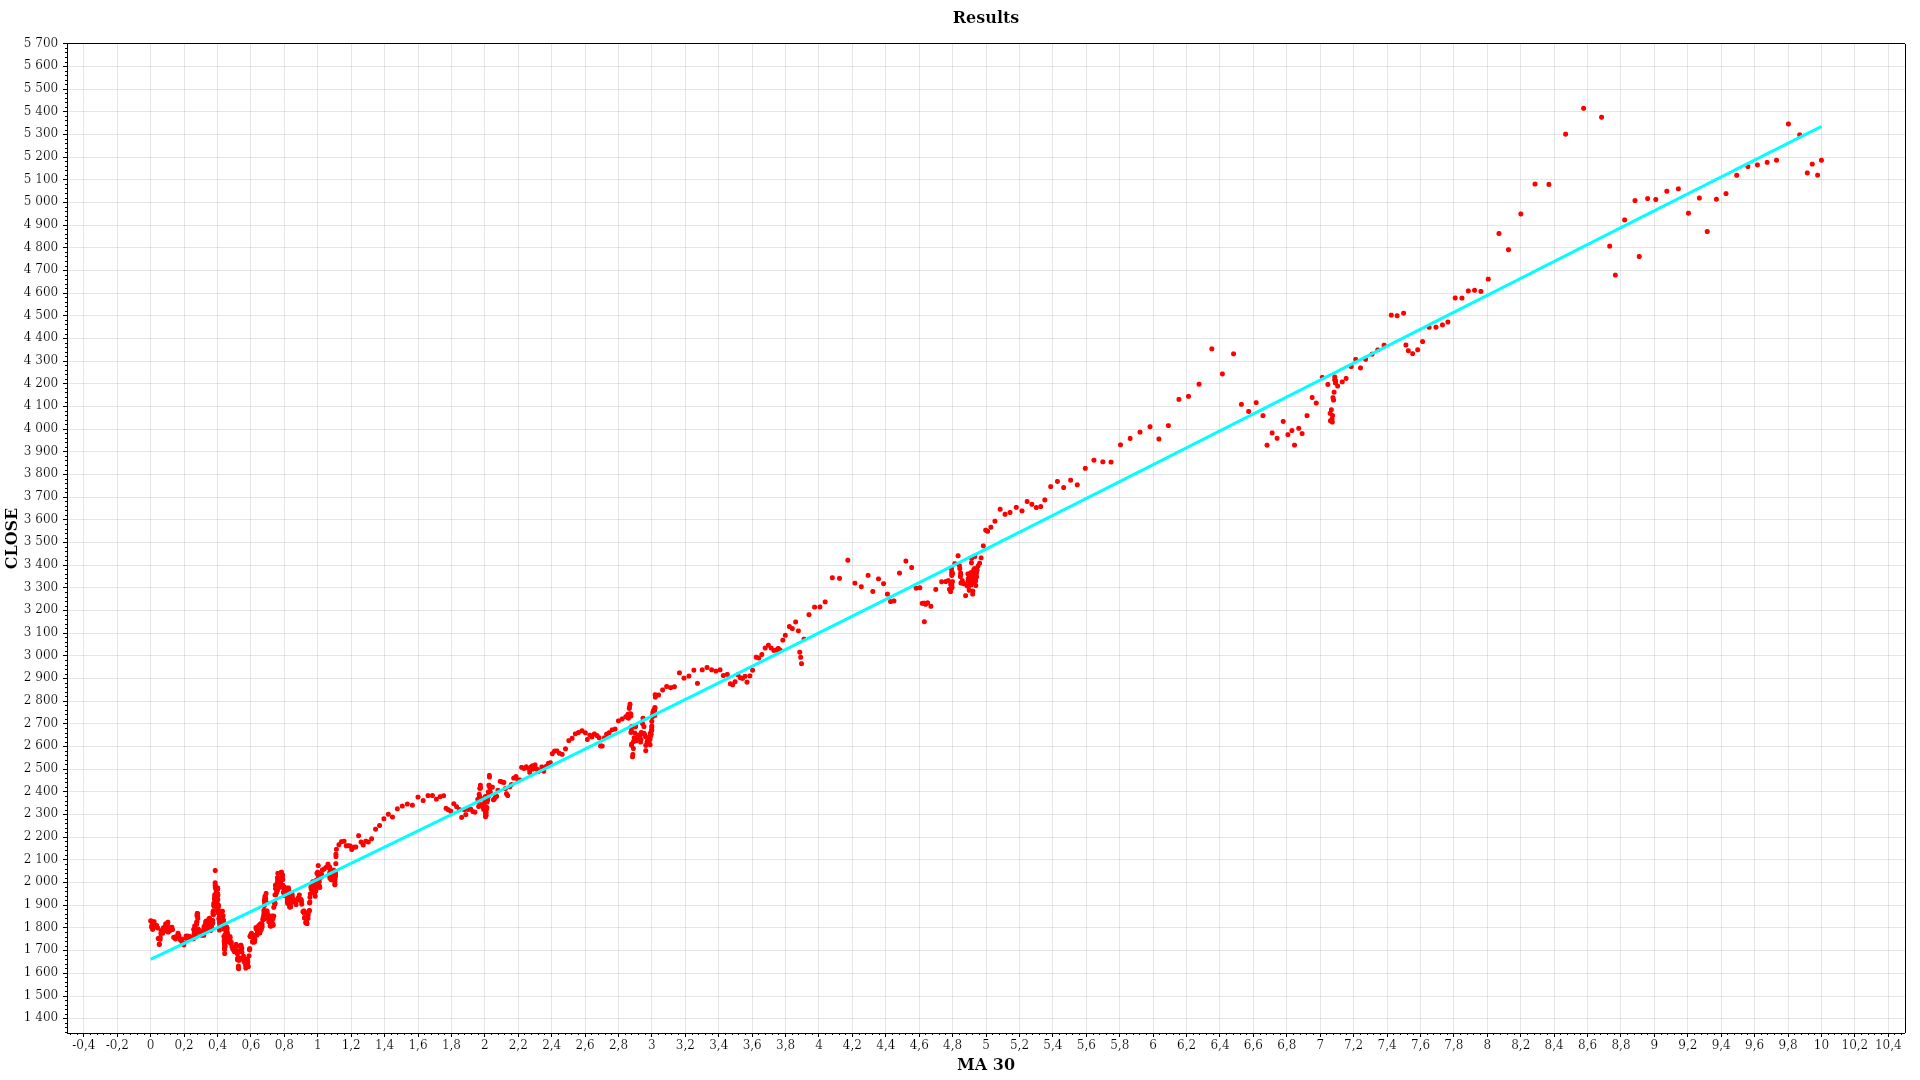
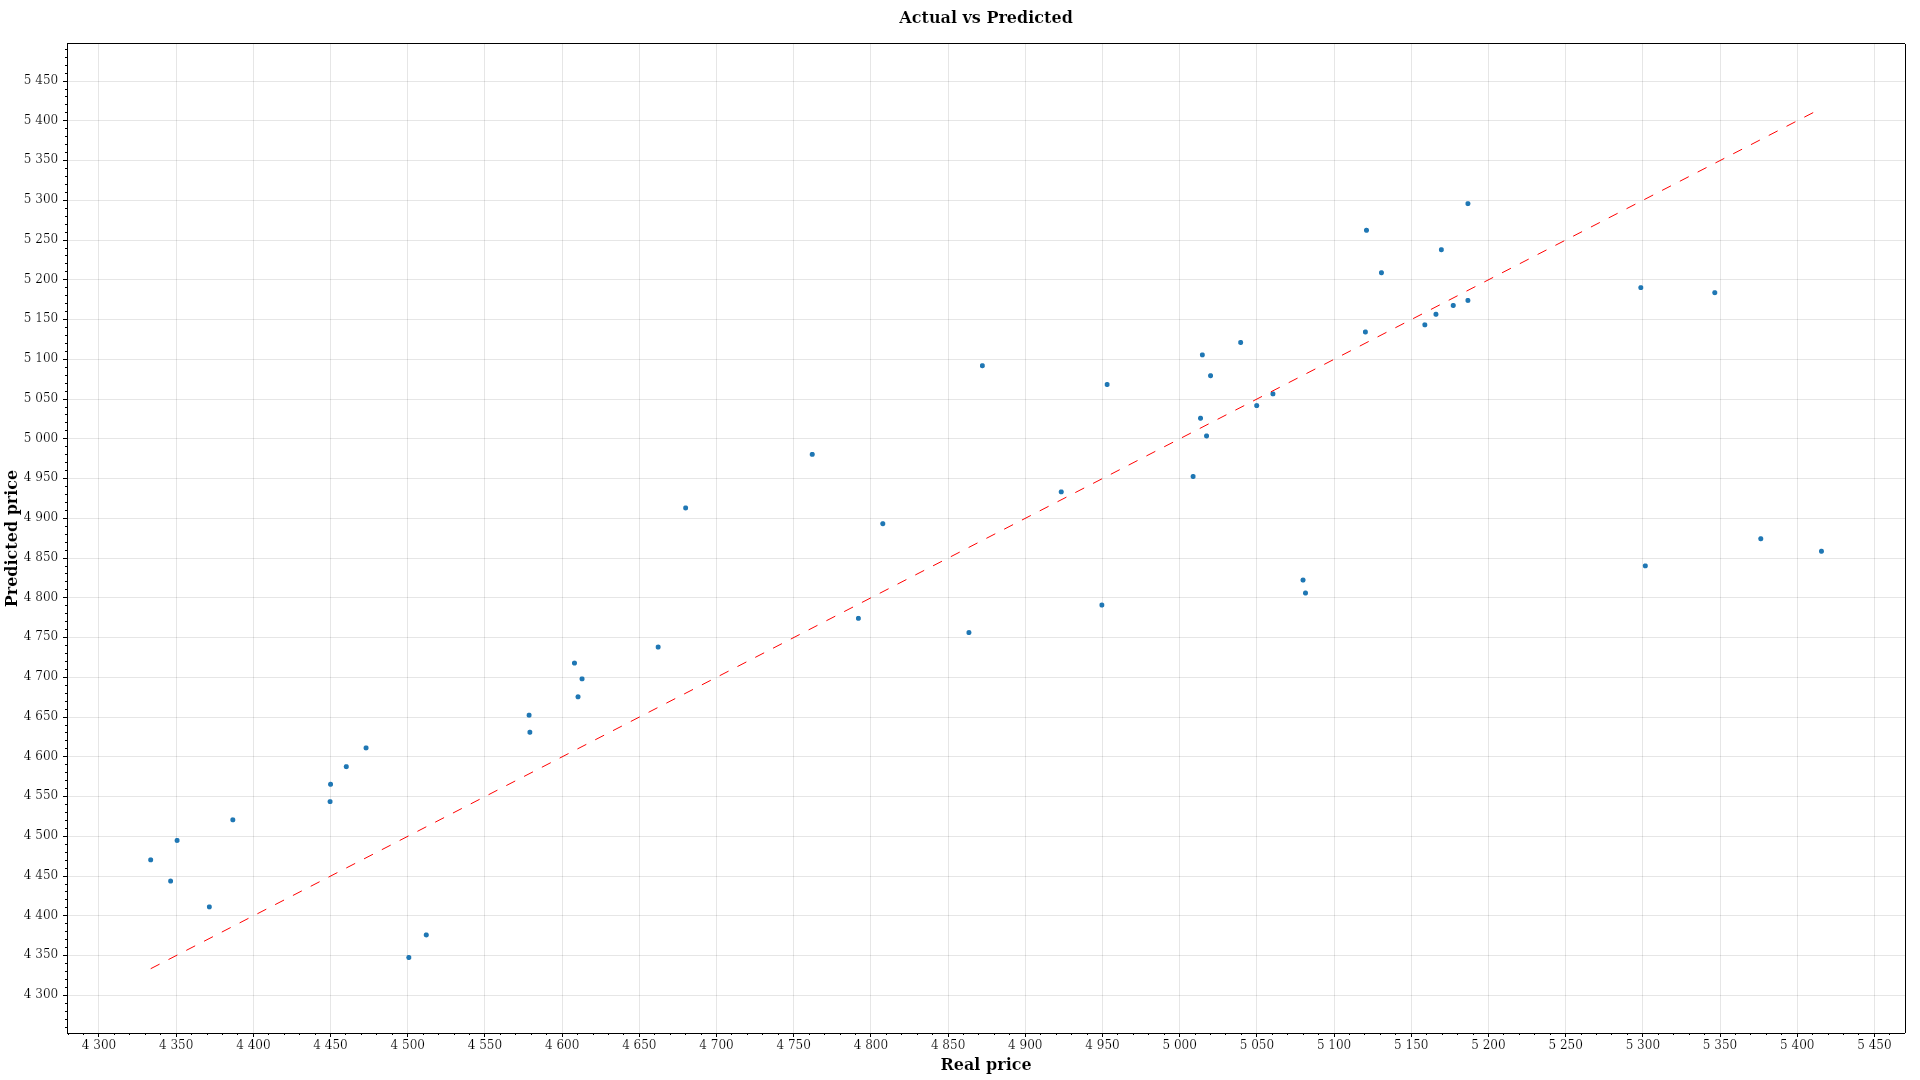
multiple arguments & cli input

Changed region(s): [[0.0, 0.0306, 1.0, 1.0], [0.4688, 0.0, 0.5625, 0.0306]]

diff --git a/Regresion/Regresion/Program.cs b/Regresion/Regresion/Program.cs
@@ -1,26 +1,31 @@
+using System.Diagnostics;
+using CommandLine;
 using Regresion.Algorithms;
+using Regresion.Inputs;
 using Regresion.Loader;
 using ScottPlot;
+using Spectre.Console;
 
-int degree = 3;
+string? filePath = string.Empty;
+IEnumerable<string?> AxisX = new List<string?>();
+string? AxisY = string.Empty;
+int degree = 6;
 
-Console.WriteLine("Name for X: ");
-string inputX = Console.ReadLine();
-Console.WriteLine("Name for Y: ");
-string inputY = Console.ReadLine();
+Parser.Default.ParseArguments<InputOptions>(args).WithParsed<InputOptions>(options =>
+{
+    filePath = options.csvFilePath;
+    AxisX = options.axisX;
+    AxisY = options.axisY;
+});
 
-var (xArr, yArr) = CsvDataLoader.LoadWith("gold_futures_timeseries.csv", 150, inputX, inputY);
+if (string.IsNullOrEmpty(filePath) || !AxisX.Any() || string.IsNullOrEmpty(AxisY)) return;
+
+var (xArr, yArr) = CsvDataLoader.LoadWith(filePath, 50, AxisX, AxisY);
 
 //scaling
 
-double minX = xArr.Min();
-double maxX = xArr.Max();
-for (int i = 0; i < xArr.Length; i++)
-{
-    xArr[i] = ((xArr[i] - minX) / (maxX - minX)) * 10;
-}
 
-double[,] matrixX = BuildMatrix.Build_X_Matrix(xArr, degree);
+double[,] matrixX = BuildMatrix.Build_Multiple_X_Matrix(xArr);
 int n = yArr.Length;
 double[,] matrixY = new double[n, 1];
 for (int i = 0; i < n; i++)
@@ -31,7 +36,7 @@ for (int i = 0; i < n; i++)
 double[,] X_T = MyTranspose.CallMyTranspose(matrixX);
 double[,] X_T_X = MultiplyMatrix.Multi(X_T, matrixX);
 
-double[,] inverse = Inverse.InvertMatrix(X_T_X);
+double[,]? inverse = Inverse.InvertMatrix(X_T_X);
 if (inverse == null) return;
 
 double[,] X_T_y = MultiplyMatrix.Multi(X_T, matrixY);
@@ -45,10 +50,19 @@ for (int i = 0; i < theta.GetLength(0); i++)
 }
 
 List<double> yPredictied = new List<double>();
-foreach (double x in xArr)
+int rowsCount = xArr.GetLength(0);
+int colsCount = xArr.GetLength(1);
+
+for (int i = 0; i < rowsCount; i++)
 {
-    double predicatedValue = Evaluate.EvaluatePolynominal(x, predictedCoeff);
-    yPredictied.Add(predicatedValue);
+    double[] rowFeatues = new double[colsCount];
+    for (int j = 0; j < colsCount; j++)
+    {
+        rowFeatues[j] = xArr[i, j];
+    }
+
+    double pred = Evaluate.EvaluateMultiple(rowFeatues, predictedCoeff);
+    yPredictied.Add(pred);
 }
 
 double mse = 0;
@@ -65,22 +79,52 @@ Console.WriteLine($"MSE: {mse}");
 
 double[] ys_pred = yPredictied.ToArray();
 
+var table = new Table();
+table.AddColumn("ID");
+table.AddColumn(new TableColumn("Wartość oczekiwana").Centered());
+table.AddColumn(new TableColumn("Predykcja").Centered());
+table.AddColumn("status");
+for (int i = 0; i < ys_pred.Length; i++)
+{
+    double expected = yArr[i];
+    double predicted = ys_pred[i];
+    double difference = Math.Abs(predicted - expected);
 
+    string status = difference switch
+    {
+        > 100 => "[red bold] Anomaly [/]",
+        > 50 => "[blue] Not Bad [/]",
+        _ => "[green] Success [/]"
+    };
 
+    table.AddRow(
+        i.ToString(), 
+        expected.ToString("F2"), 
+        predicted.ToString("F2"), 
+        status
+    );
+}
+AnsiConsole.Write(table);
 ScottPlot.Plot plt = new();
 
-var realplot = plt.Add.Scatter(xArr, yArr);
+var realplot = plt.Add.Scatter(yArr, ys_pred);
 realplot.LineWidth = 0;
 realplot.MarkerSize = 5;
-realplot.Color = new Color(255, 0, 0);
-Array.Sort(xArr,ys_pred);
-var predPlot = plt.Add.Scatter(xArr, ys_pred);
-predPlot.MarkerSize = 0;
-predPlot.LineWidth = 3;
-predPlot.LineColor = new Color(0, 255, 255);
 
-plt.Title("Results");
-plt.XLabel("MA 30");
-plt.YLabel("CLOSE");
+double minVal = yArr.Min();
+double maxVal = yArr.Max();
+var perfectLine = plt.Add.Line(minVal, minVal, maxVal, maxVal);
+perfectLine.Color = new ScottPlot.Color(255, 0, 0);
+perfectLine.LinePattern = ScottPlot.LinePattern.Dashed;
+
+plt.Title("Actual vs Predicted");
+plt.XLabel("Real price");
+plt.YLabel("Predicted price");
 plt.SavePng("samples.png",1920,1080);
+
+Process.Start(new ProcessStartInfo
+{
+    FileName = "samples.png",
+    UseShellExecute = true 
+});
 

diff --git a/Regresion/Regresion/Loader/CsvDataLoader.cs b/Regresion/Regresion/Loader/CsvDataLoader.cs
@@ -5,33 +5,42 @@ namespace Regresion.Loader;
 
 public static class CsvDataLoader
 {
-    public static (double[] ma30, double[] close) LoadWith(string filePath, int days, string nameX, string nameY)
+    public static (double[,] AxeX, double[] AxeY) LoadWith(string filePath, int days, IEnumerable<string> nameX, string nameY)
     {
         using var reader = new StreamReader(filePath);
         using var csv = new CsvReader(reader, CultureInfo.InvariantCulture);
 
         csv.Read();
         csv.ReadHeader();
-        List<double> xList = new List<double>();
+        List<List<double>> xList = new List<List<double>>();
         List<double> yList = new List<double>();
         while (csv.Read())
         {
-            double valX = csv.GetField<double>(nameX);
+            List<double> valX = new List<double>();
+            foreach (string name in nameX)
+            {
+                double tempValX = csv.GetField<double>(name);
+                valX.Add(tempValX);
+            }
             double valY = csv.GetField<double>(nameY);
 
             xList.Add(valX);
             yList.Add(valY);
         }
-        
-        double[] X = xList.ToArray();
+
+        xList = xList.TakeLast(days).ToList();
+        yList = yList.TakeLast(days).ToList();
+        double[,] X = new double[xList.Count,xList[0].Count];
+        for (int i = 0; i < xList.Count; i++)
+        {
+            for (int j = 0; j < xList[i].Count; j++)
+            {
+                X[i, j] = xList[i][j];
+            }
+        }
         double[] Y = yList.ToArray();
 
         return (X, Y);
     }
 }
 
-public class TheAxes
-{
-    public double AxeX { get; set; }
-    public double AxeY { get; set; }
-}

diff --git a/Regresion/Regresion/Algorithms/BuildMatrix.cs b/Regresion/Regresion/Algorithms/BuildMatrix.cs
@@ -19,4 +19,22 @@ public static class BuildMatrix
 
         return result;
     }
+    
+    public static double[,] Build_Multiple_X_Matrix(double[,] matrix)
+    {
+        int rows = matrix.GetLength(0);
+        int cols = matrix.GetLength(1);
+        double[,] result = new double[rows,  cols + 1];
+
+        for(int i = 0; i < rows; i++)
+        {
+            result[i, 0] = 1.0;
+            for (int j = 0; j < cols; j++)
+            {
+                result[i, j + 1] = matrix[i, j];
+            }
+        }
+
+        return result;
+    }
 }

diff --git a/Regresion/Regresion/Inputs/InputOptions.cs b/Regresion/Regresion/Inputs/InputOptions.cs
@@ -1,0 +1,15 @@
+using Microsoft.Extensions.Options;
+
+namespace Regresion.Inputs;
+using CommandLine;
+public class InputOptions
+{
+    [Option('p', "path to file", Required = true, HelpText = "Give csv file path")]
+    public string? csvFilePath { get; set; }
+    
+    [Option('x',"AxisX", Required = true, HelpText = "Give axis X")]
+    public IEnumerable<string?> axisX { get; set; }
+    
+    [Option('y',"AxisY", Required = true, HelpText = "Give axis y")]
+    public string? axisY { get; set; }
+}

diff --git a/Regresion/Regresion/Algorithms/Evaluate.cs b/Regresion/Regresion/Algorithms/Evaluate.cs
@@ -14,4 +14,15 @@ public static class Evaluate
         
         return result;
     }
+
+    public static double EvaluateMultiple(double[] rowFeatures, List<double> theta)
+    {
+        double result = theta[0];
+        for (int i = 0; i < rowFeatures.Length; i++)
+        {
+            result += theta[i + 1] * rowFeatures[i];
+        }
+
+        return result;
+    }
 }

diff --git a/Regresion/Regresion/Algorithms/Inverse.cs b/Regresion/Regresion/Algorithms/Inverse.cs
@@ -2,7 +2,7 @@ namespace Regresion.Algorithms;
 
 public static class Inverse
 {
-    public static double[,] InvertMatrix(double[,] matrix)
+    public static double[,]? InvertMatrix(double[,] matrix)
     {
         int n = matrix.GetLength(0);
         double[,] augmented = new double[n, n * 2];
